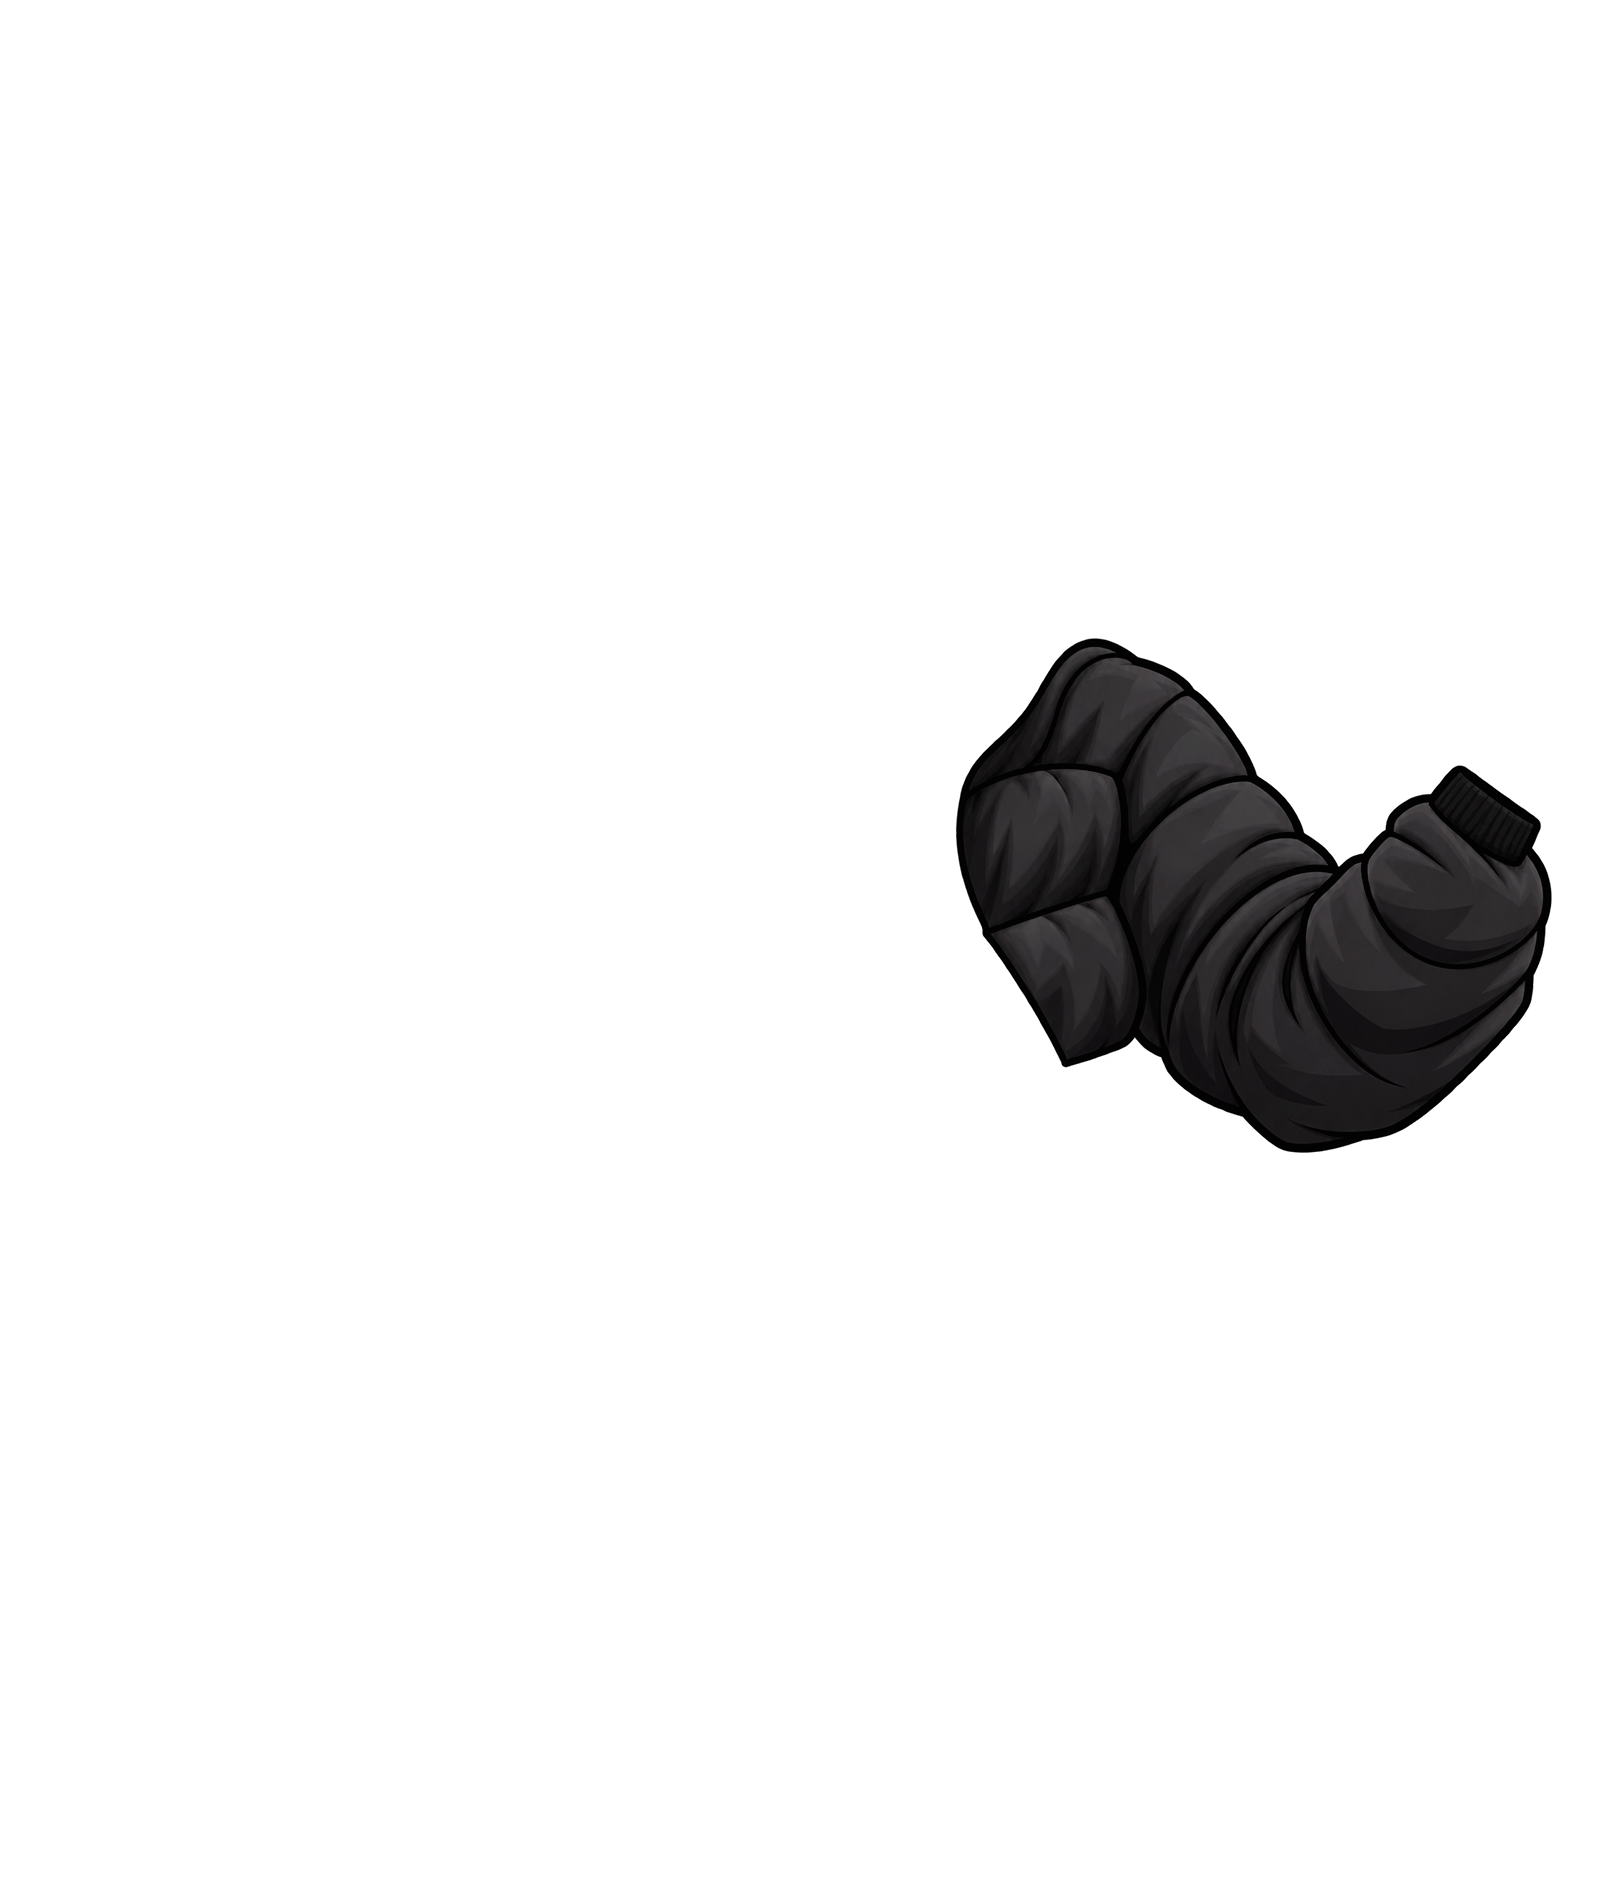
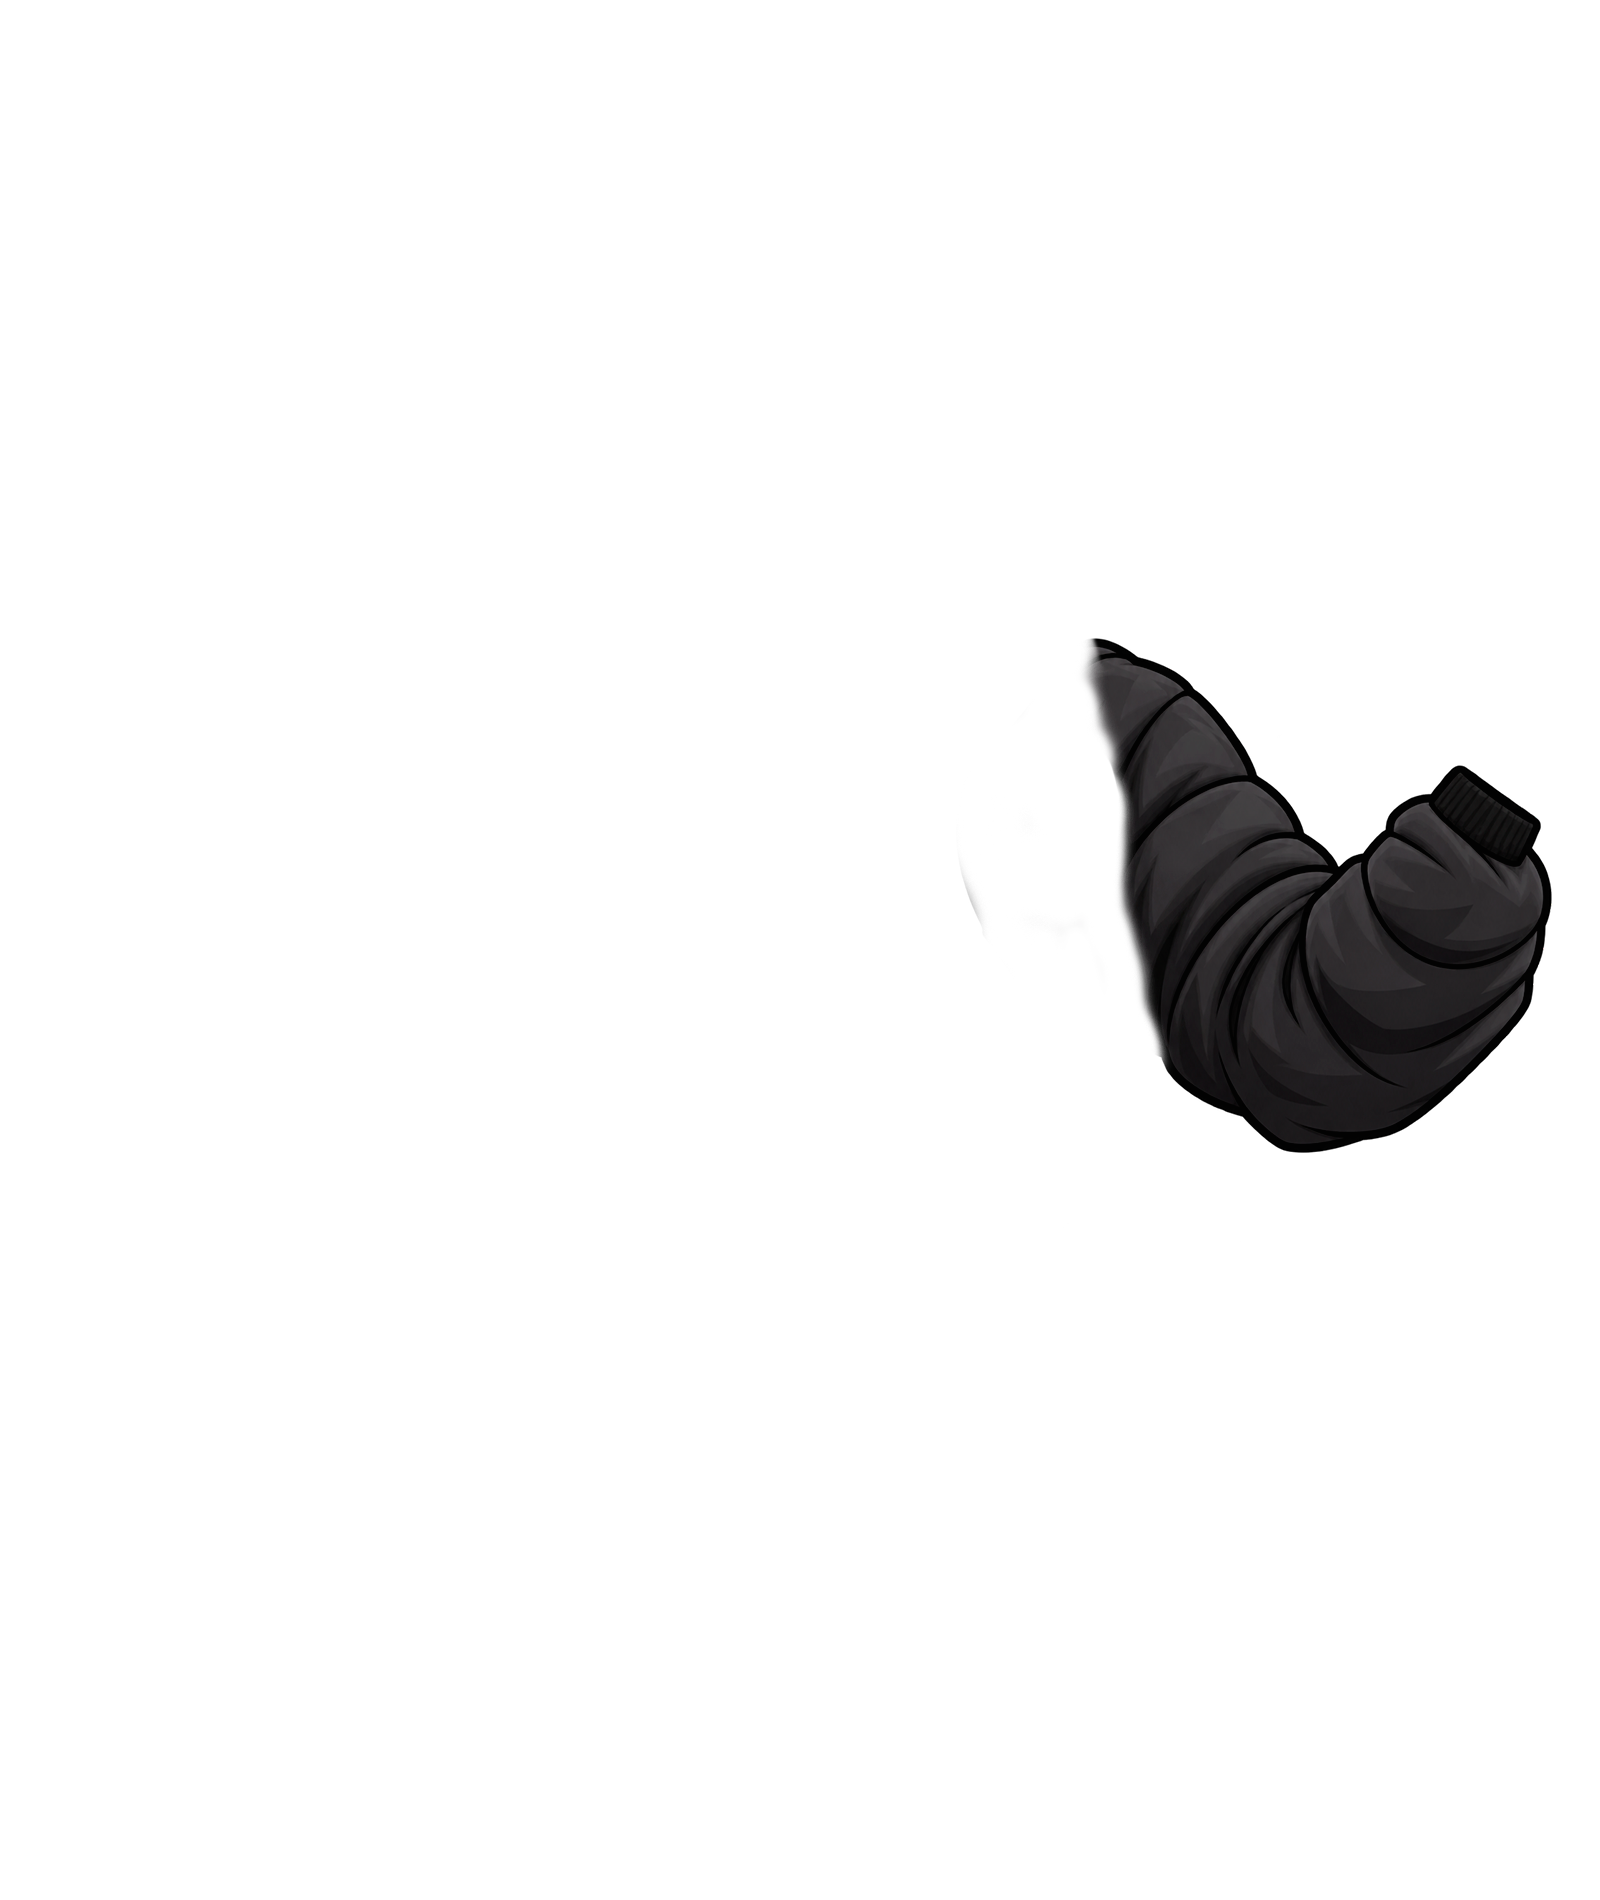
Гаркуша: new left arm (soft shoulder joins the vest)
Claude-Session: https://claude.ai/code/session_01SbwGaQFKiiUeHqN81fcNGp

Changed region(s): [[0.5938, 0.3416, 0.75, 0.5589]]

diff --git a/src/client/art/boss-rig-data.ts b/src/client/art/boss-rig-data.ts
@@ -313,9 +313,9 @@ export const BOSS_RIGS: Record<string, { w: number; h: number; parts: Record<str
         ]
       },
       "armR": {
-        "x": 476.5,
+        "x": 481.0,
         "y": 317.5,
-        "w": 301,
+        "w": 296,
         "h": 260,
         "pivot": [
           540.0,
